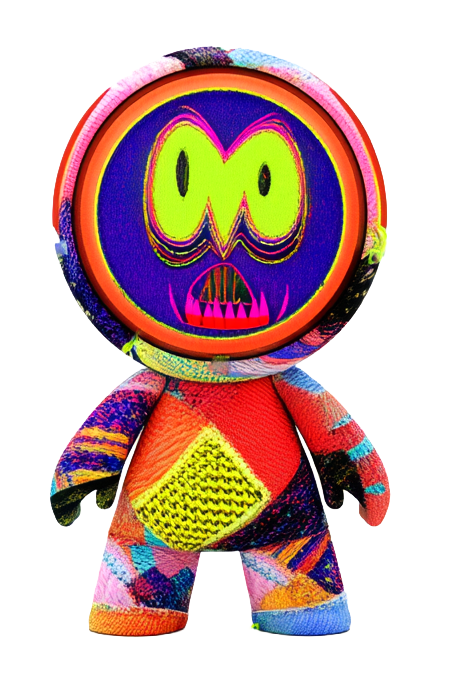
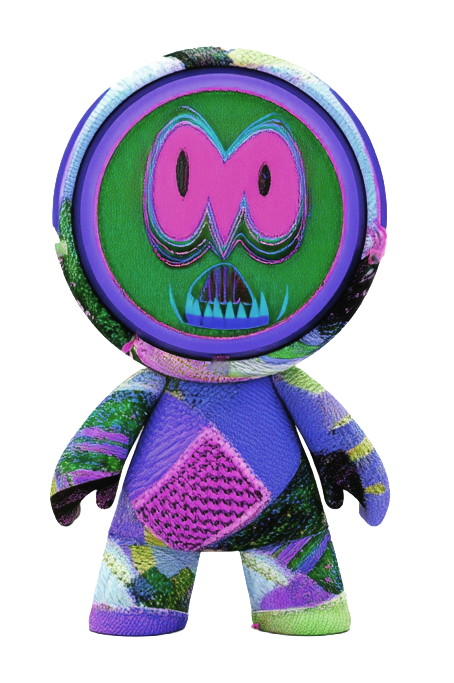
feat: revert character image to kyara.png

diff --git a/app/p/[id]/PlayerClient.tsx b/app/p/[id]/PlayerClient.tsx
@@ -215,7 +215,7 @@ export default function PlayerClient({ audioUrl, displayName, fileKey }: Props) 
 
       {/* キャラクター */}
       <img
-        src="/top-c.png"
+        src="/kyara.png"
         alt="character"
         className="w-36 sm:w-44 object-contain drop-shadow-2xl"
         style={{

diff --git a/app/page.tsx b/app/page.tsx
@@ -48,7 +48,7 @@ export default function TopPage() {
 
         {/* キャラクター */}
         <Image
-          src="/top-c.png"
+          src="/kyara.png"
           alt="character"
           width={400}
           height={400}
